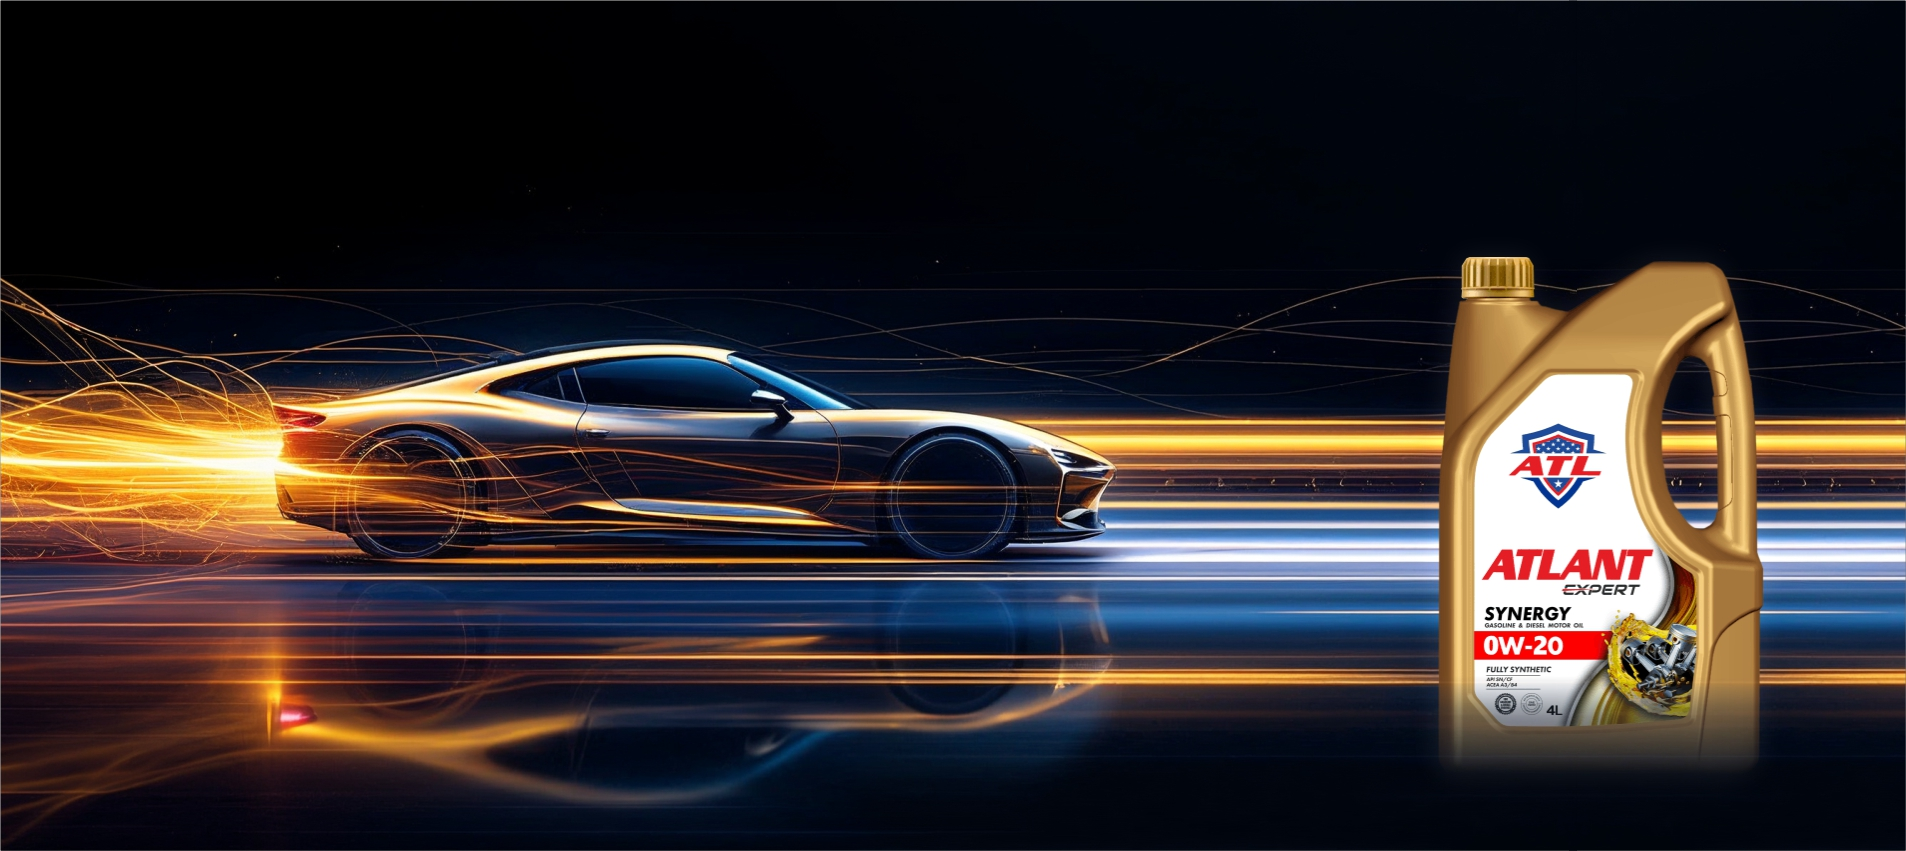
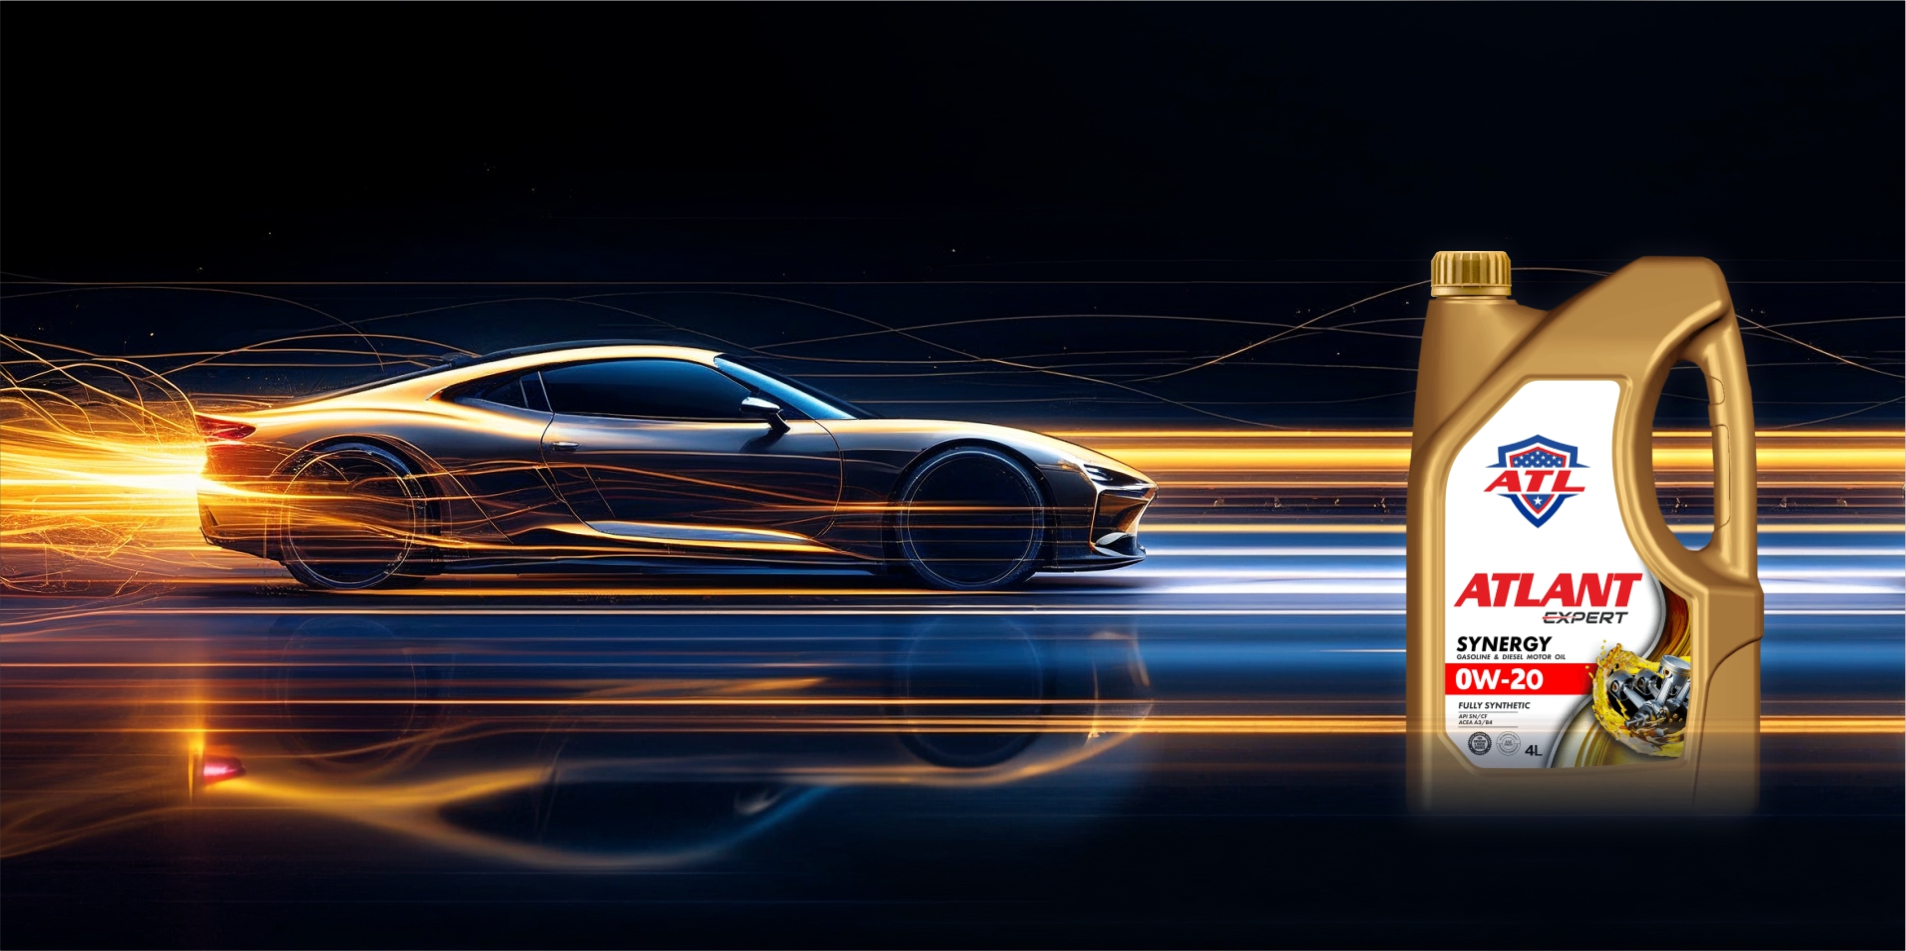
add

diff --git a/src/companents/layout/header/Header.jsx b/src/companents/layout/header/Header.jsx
@@ -45,7 +45,6 @@ const Header = () => {
             </li>
                  
             <li className="header__nav__list header__nav__list-category">
-
               <NavLink className="header__nav__link">
                 Каталог
               </NavLink>

diff --git a/src/companents/hero/hero.scss b/src/companents/hero/hero.scss
@@ -1,5 +1,5 @@
 .hero {
-  height: calc(910px - 60px);
+  height: calc(980px - 60px);
   // height: calc(100vh - 60px);
   // background: url(../../assets/img/main.jpg);
   background: url(../../assets/img/hBg.jpg);

diff --git a/src/companents/layout/header/header.scss b/src/companents/layout/header/header.scss
@@ -7,7 +7,6 @@
   z-index: 100;
   transition: background-color 0.3s ease;
   border-bottom: 1px solid rgba(255, 255, 255, 0.3);
-  background-color: black;
 
   &.scrolled {
     background-color: white;
